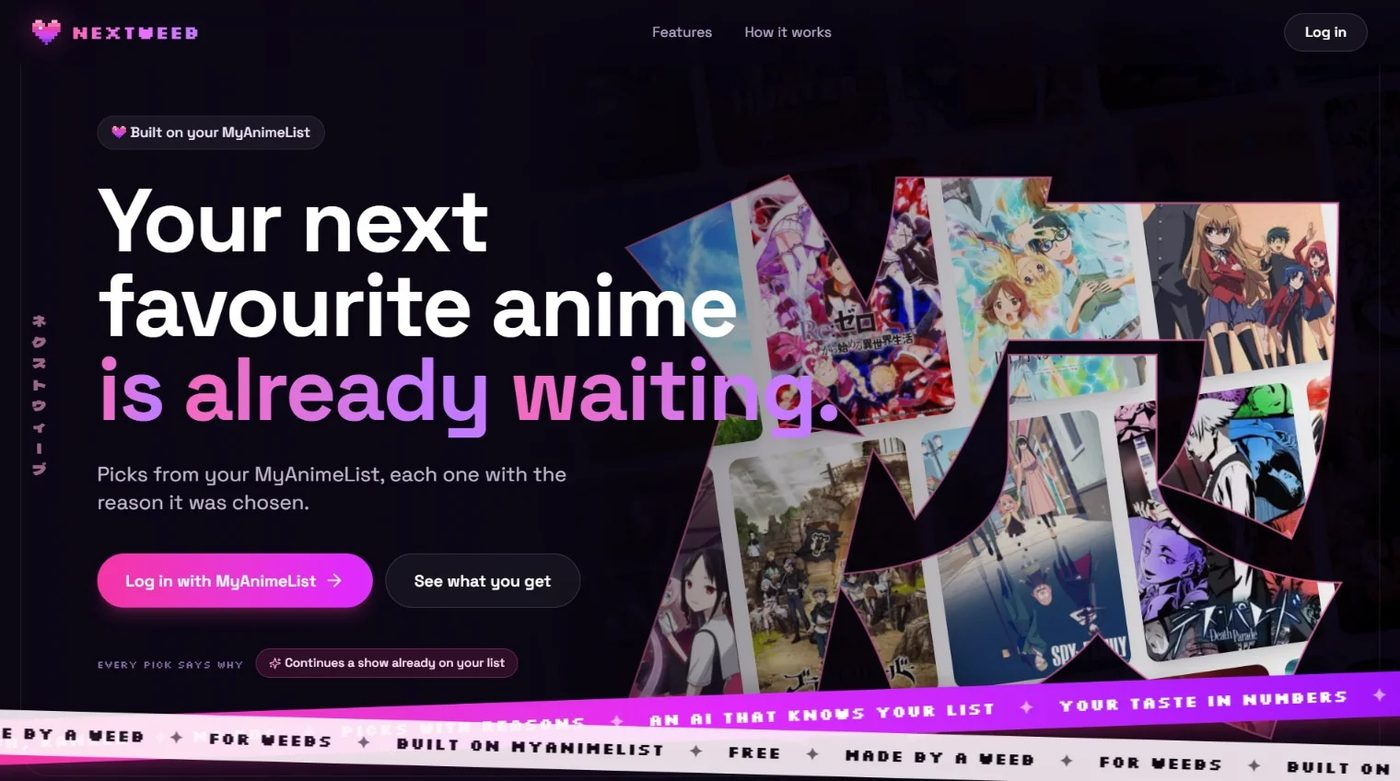
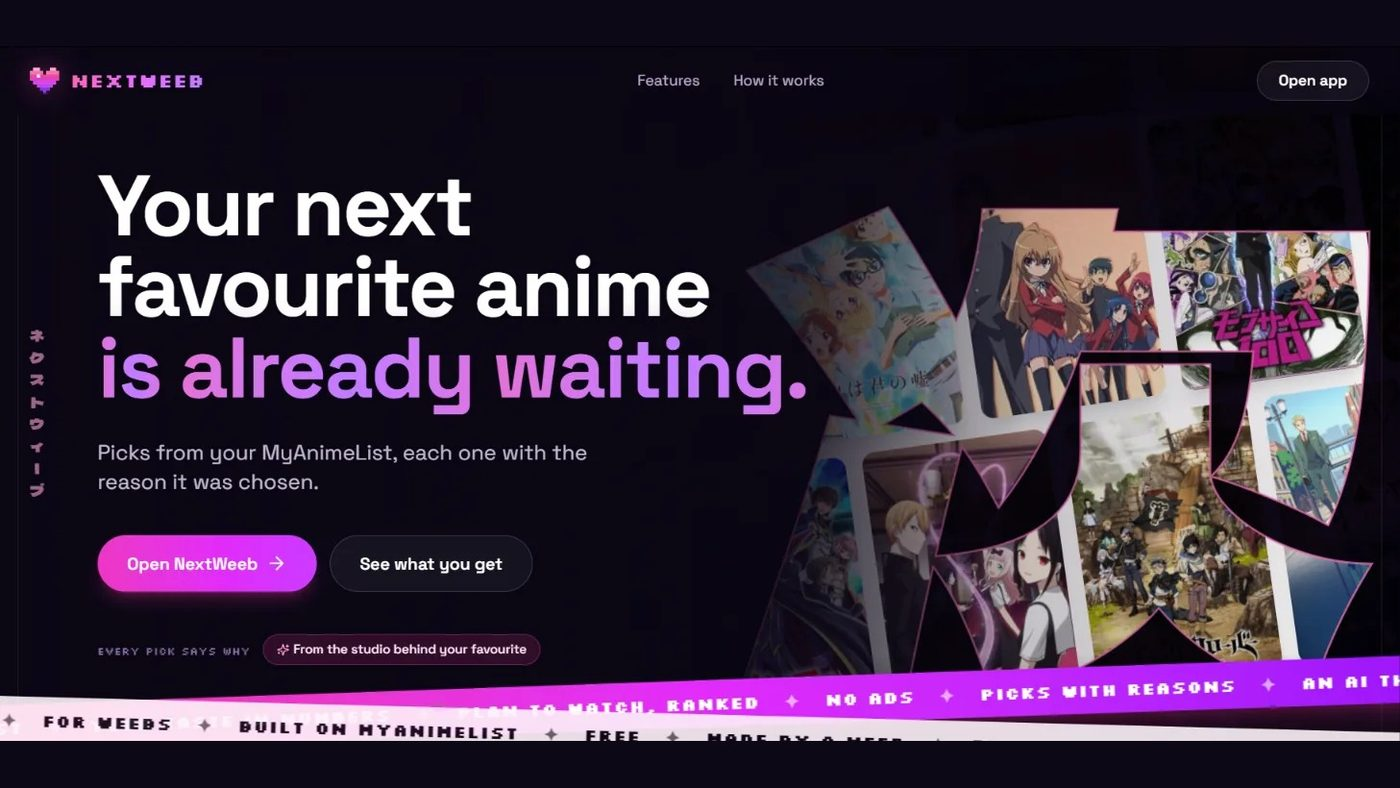
even the view project button gap, new nextweeb screenshot
The desktop card's button sits at a fixed 52px from the bottom and right
edges again, with the title and description centred in the space above
it, so the gap is the same on every card and long copy still can't run
underneath it.

NextWeeb's modal image is the README's new landing screenshot, padded to
16:9 in the page's own ground so the modal's frame doesn't crop the logo.

diff --git a/src/pages/projects/ProjectsDesktop.tsx b/src/pages/projects/ProjectsDesktop.tsx
@@ -60,16 +60,19 @@ const ProjectCard = ({ proj, index, onSelect }: ProjectCardProps) => (
             </div>
 
             {/* Content Section */}
-            <div className="w-8/13 py-2 pl-6 pr-10 flex flex-col justify-center">
-                <h2 className="text-4xl font-pixel2 mb-3 text-black">{proj.title}</h2>
-                <p className="text-base font-serif text-gray-800 leading-relaxed mb-4">{proj.desc}</p>
-                {/* In flow rather than absolutely placed: the column is vertically
-                    centred, so a title that wraps to two lines used to push the
-                    description down underneath a button pinned to a fixed spot.
-                    `self-end` + `mr-3` keeps it where it was, 52px off the right edge. */}
+            <div className="w-8/13 py-2 pl-6 pr-10 flex flex-col">
+                {/* Text centres in the space above the button rather than in the
+                    whole card. Absolutely placing the button let a wrapping title
+                    push the copy underneath it; putting it straight after the copy
+                    made its height follow the copy's length. This way it sits the
+                    same 52px off the bottom and right edges on every card. */}
+                <div className="flex flex-1 flex-col justify-center">
+                    <h2 className="text-4xl font-pixel2 mb-3 text-black">{proj.title}</h2>
+                    <p className="text-base font-serif text-gray-800 leading-relaxed">{proj.desc}</p>
+                </div>
                 <button
                     onClick={() => onSelect(proj)}
-                    className="relative self-end shrink-0 mr-3 w-30 h-10 transition-all duration-200 group"
+                    className="relative self-end shrink-0 mr-3 mb-11 w-30 h-10 transition-all duration-200 group"
                 >
                     <img
                         src="/assets/other/button_rectangle_depth_flat.png"
